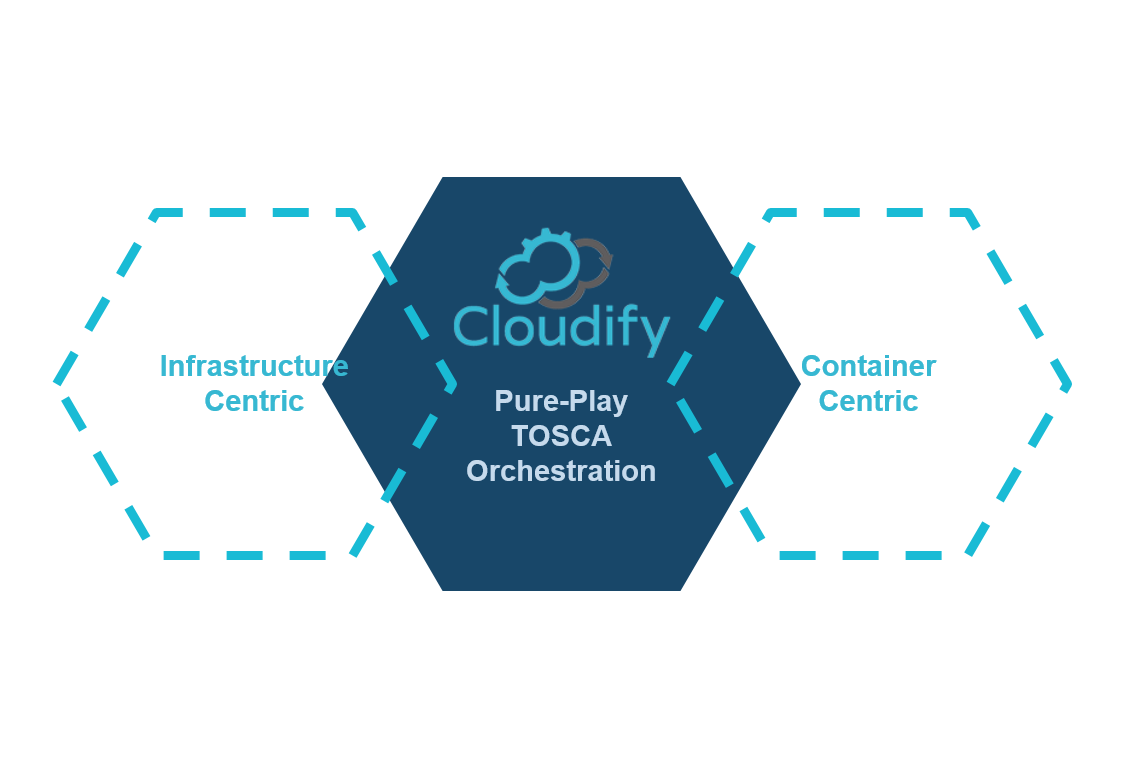
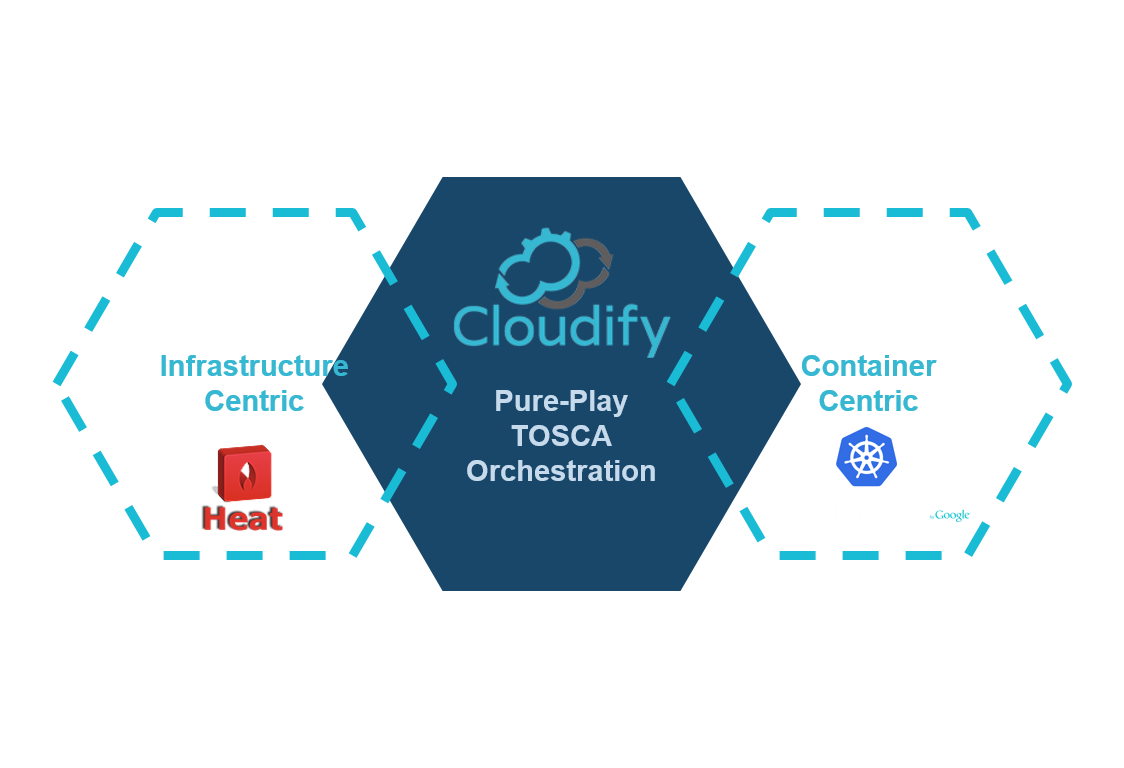
new product

Changed region(s): [[0.1557, 0.5625, 0.2491, 0.6875], [0.7473, 0.5625, 0.8096, 0.6562], [0.8407, 0.6562, 0.8719, 0.6875]]

diff --git a/source/test/sharone.html b/source/test/sharone.html
@@ -97,12 +97,11 @@ category: cloud orchestration cloud automation
 								<p style="vertical-align:top;">Cloudify is OpenStack native, this means it was built to work seamlessly with OpenStack deployments of all kinds enabling you to orchestrate your apps easily for any use case: hybrid cloud, NFV, simplified migration, or hybrid workload environments (bare metal, containers and more).</p>
 								<p style="vertical-align:top;"> As part of the native approach, Cloudify is deeply integrated with leading OpenStack projects:</p>
 								<ul>
-								<li><a href="{{ site.baseurl }}/"><strong>OpenStack Heat:</strong></a></li>
-								<li><a href="{{ site.baseurl }}/"><strong>OpenStack Murano:</strong></a></li>
-								<li><a href="{{ site.baseurl }}/"><strong>TOSCA:</strong></a></li>
-								<li>Neutron, Nova, Keystone and more: </li>
+								<li><a href="/openstack-architecture-cloudify.html#Heat"><strong>OpenStack Heat:</strong></a> Cloudify can be provisioned on an OpenStack environment using a Heat template. OpenStack users can use this template to modify and control the Cloudify manager configuration just like they would with any other service.</li>
+								<li><a href="{{ site.baseurl }}/"><strong>OpenStack Murano:</strong></a>Murano, like Cloudify, is pluggable with a built-in plugin system - so it was only natural for the Cloudify team to partner with the engineering team behind Murano to create a Cloudify plugin for Murano. This plugin allows Murano to manage TOSCA templates directly, and deploy them to OpenStack and other clouds directly, using Cloudify. By using this plugin, users can essentially extend Murano to any infrastructure, and even deploy and model applications on mixed infrastructures.</li>
+								<li><strong>OpenStack Neutron:</strong>Cloudify includes support for all the networking elements, and can help automate the creation and management of these networking requirements all as part of the application deployment.</li>
 								</ul>
-								<p>Loremipsum something something</p>
+								
 								
 							
 						</div>
@@ -146,15 +145,7 @@ category: cloud orchestration cloud automation
 				<div class="span8"><div class="pad35">
 				<h2 style="vertical-align:top;"><strong><font color="#00B4DA" style="font-size:16px;">Docker Orchestration for Hybrid Workloads</font></strong></h2>
 								<p style="text
-								-align:top;">Cloudify is OpenStack native, this means it was built to work seamlessly with OpenStack deployments of all kinds enabling you to orchestrate your apps easily for any use case: hybrid cloud, NFV, simplified migration, or hybrid workload environments (bare metal, containers and more).</p>
-								<p style="vertical-align:top;"> As part of the native approach, Cloudify is deeply integrated with leading OpenStack projects:</p>
-								<ul style="vertical-align:top;">
-								<li><a href="{{ site.baseurl }}/"><strong>Kubernetes Plugin</strong></a></li>
-								<li><a href="{{ site.baseurl }}/"><strong>OpenStack Murano:</strong></a></li>
-								<li><a href="{{ site.baseurl }}/"><strong>TOSCA:</strong></a></li>
-								<li>Neutron, Nova, Keystone and more: </li>
-								</ul>
-								<p>Loremipsum something something</p>
+								-align:top;">Cloudify has a built-in Docker plugin and matching types, which allows users to use Docker containers as part of any topology. This provides a full-blown orchestration and automation method for large-scale Docker-based systems. On top of this, Cloudify has a  built-in plugin for Kubernetes.  Cloudify through its TOSCA engine, has created a language that models Kubernetes into TOSCA to easily extend it to any cloud or environment, or fuse microservices alongside non-microservices in the same template, and provide cross-cloud, environment and workload orchestration for the entire system.</p>
 								
 								<a name="HPLink2"></a>
 	
@@ -219,7 +210,7 @@ category: cloud orchestration cloud automation
 							</div>
 							<div class="text">
 							<br/>
-							<h3><strong><font color="#00B4DA">From Hybrid Cloud to Workloads</font> with Cloudify</strong> </h3>
+							<h3><strong><font color="#00B4DA">Hybrid Cloud & Workloads</font> with Cloudify</strong> </h3>
 								<p>Real environments are many times are comprised of diverse workloads running on diverse infrastructure - from container and database clusters and even stateful services such as big data and analytics systems on bare metal through non-virtualized and even legacy environments.  In order to connect this new wave of hybrid environments and workloads - including everything from setup and provisioning of networking and other complex services on any cloud, an orchestration platform is necessary.  Cloudify through its TOSCA engine, has created a single pane of glass for entire complex systems of today. </p>
 															
 							</div>
